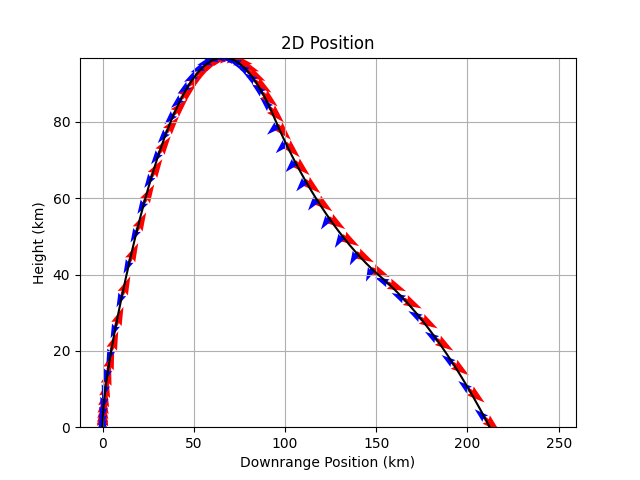
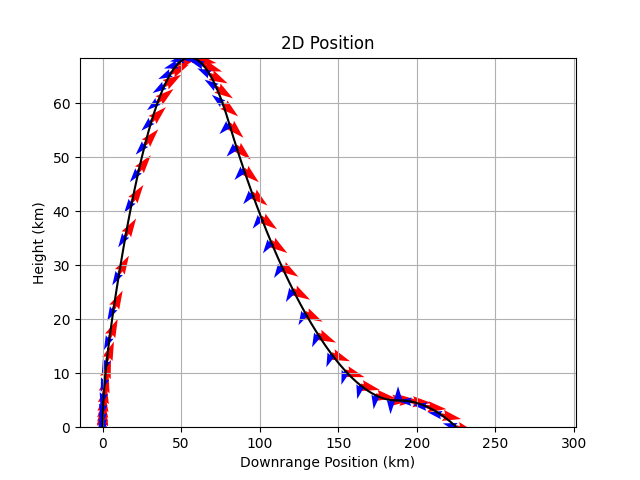
Bringing back normalizing and temp alternating to setting flight path 0 so maybe we can adjust downrage distance

diff --git a/src/trajectory.py b/src/trajectory.py
@@ -5,6 +5,7 @@ import matplotlib.pyplot as plt
 
 # Local imports
 from controller import Controller
+from util import normalize_radians
 
 
 def determine_density(h):
@@ -40,13 +41,17 @@ def ode_equations(t,y):
     # Determine dt
     util_values['dt'] = t - util_values['prior_t']
 
+    # Normalize theta
+    theta = normalize_radians(theta)
+
     # Ascent: before gravity turn
     if h <= h_turn and t<=tb_ascent:
 
         # Phase
-        util_values["phase"] = "Ascent pre grav turn"
+        util_values["phase"] = 1
 
         # Determine TVC correction
+        util_values['psi'], util_values['theta_error'] =pidController.get_psi_correction(theta, util_values['psi'], util_values['theta_error'], util_values['dt'])
         util_values['psi'] = theta
 
         # Thrust and mass
@@ -64,9 +69,10 @@ def ode_equations(t,y):
     elif t <= tb_ascent:
 
         # Phase
-        util_values["phase"] = "Ascent"
+        util_values["phase"] = 2
      
         # Determine TVC correction
+        util_values['psi'], util_values['theta_error'] =pidController.get_psi_correction(theta, util_values['psi'], util_values['theta_error'], util_values['dt'])
         util_values['psi'] = theta
 
         # Thrust and mass
@@ -81,12 +87,13 @@ def ode_equations(t,y):
         x_dot = v*np.cos(theta)
 
     # Coast phase
-    elif t > tb_ascent and t < 237:
+    elif t > tb_ascent and util_values["hmax_flag"] == False:
 
         # Phase
-        util_values["phase"] = "Coast"
+        util_values["phase"] = 3
 
         # Determine TVC correction
+        util_values['psi'], util_values['theta_error'] =pidController.get_psi_correction(theta, util_values['psi'], util_values['theta_error'], util_values['dt'])
         util_values['psi'] = theta
 
         # Thrust and mass
@@ -100,13 +107,13 @@ def ode_equations(t,y):
         x_dot = v*np.cos(theta)
 
     # Descent burn
-    elif util_values['mp_descent'] > 0 and h < 81e3:
+    elif util_values["hmax_flag"] and util_values['mp_descent'] > 0 and util_values['hmax'] - h >= 10e3:
 
         # Phase
-        util_values["phase"] = "Descent"
+        util_values["phase"] = 4
         
         # Determine TVC correction
-        util_values['psi'], util_values['theta_error'] =pidController.get_psi_correction(theta, util_values['psi'], util_values['theta_error'], util_values['dt'])
+        util_values['psi'], util_values['theta_error'] = pidController.get_psi_correction(theta, util_values['psi'], util_values['theta_error'], util_values['dt'])
 
         # Set times
         util_values['descent_t'] = util_values['descent_t'] + util_values['dt']
@@ -126,11 +133,11 @@ def ode_equations(t,y):
     else:
 
         # Phase
-        util_values["phase"] = "Post Descent"
+        util_values["phase"] = 5
 
         # Determine TVC correction
+        util_values['psi'], util_values['theta_error'] =pidController.get_psi_correction(theta, util_values['psi'], util_values['theta_error'], util_values['dt'])
         util_values['psi'] = theta
-
 
         # Thrust and mass
         m = m_init - (mdot_ascent * tb_ascent) - (mdot_descent * util_values['descent_t']) - mpl
@@ -141,6 +148,11 @@ def ode_equations(t,y):
         theta_dot = (F*np.sin(util_values['psi']-theta))/(m*v) + (Cl*rho*v*Ap)/(2*m) - (g*np.cos(theta))/v
         h_dot = v*np.sin(theta)
         x_dot = v*np.cos(theta)
+
+    # Determine if we have reached maximum height
+    if (h - util_values['prior_h']) < -10 and util_values["hmax_flag"] == False:
+        util_values['hmax_flag'] = True 
+        util_values['hmax'] = util_values['prior_h']
 
     # Save values
     save_values['t'].append(t)
@@ -156,9 +168,12 @@ def ode_equations(t,y):
     save_values['x'].append(x)
     save_values['rho'].append(rho)
     save_values['g'].append(g)
+    save_values['phase'].append(util_values['phase'])
+
+    # Update prior values
     util_values['prior_t'] = t
     util_values['prior_h'] = h
-
+    
     #print(t, util_values["phase"], theta*180/np.pi,util_values['theta_error']*180/np.pi, util_values['mp_descent'])
 
     # Return
@@ -177,10 +192,10 @@ if __name__ == '__main__':
 
     # Masses
     mprop_ascent = 111130
-    mprop_descent = mprop_ascent/20
     mpl = 32000
     mstruct = 6736
-    m_init = mprop_ascent + mprop_descent + mstruct + mpl
+    mprop_descent = mstruct*2
+    m_init = mprop_ascent + mstruct + mpl + mprop_descent
 
     # Ascent Burn
     tb_ascent = 100
@@ -189,8 +204,9 @@ if __name__ == '__main__':
     h_turn = 1000
 
     # Descent Burn
-    mdot_descent = mdot_ascent/15
-    thrust_descent = thrust_ascent/15
+    descent_ratio = 10
+    mdot_descent = mdot_ascent/descent_ratio
+    thrust_descent = thrust_ascent/descent_ratio
     
     # Initial Conditions
     v_init = 0
@@ -202,23 +218,24 @@ if __name__ == '__main__':
     # Controller
     #------------------------------------------------
     # PID
-    Kp = 0.6
-    Ki = 0.1
-    Kd = 0.2
-    desired_flight_path_angle = 90
+    Kp = 500
+    Ki = 0
+    Kd = 2
+    desired_flight_path_angle = 0
     bounds = 90
     pidController = Controller(Kp, Ki, Kd, desired_flight_path_angle, bounds)
 
     #------------------------------------------------
     # Dict
     #------------------------------------------------
-    # Dicts
     util_values = {
                     'psi': theta_init,
                     'theta_error': 0,
                     'dt': 0,
                     'prior_t': 0,
                     'prior_h': 0,
+                    'hmax_flag': False,
+                    'hmax': 0,
                     'descent_t': 0,
                     'mp_descent': mprop_descent,
                     'mp_ascent': mprop_ascent,
@@ -238,14 +255,15 @@ if __name__ == '__main__':
                     'F': [],
                     'm': [],
                     'mp_descent': [],
-                    'mp_ascent': []
+                    'mp_ascent': [],
+                    'phase': []
                     }
 
     #------------------------------------------------
     # ODE Solving
     #------------------------------------------------
-    # Solve ODEs  (384 original seconds)
-    sol = integrate.solve_ivp(ode_equations, (0,1000), [v_init, theta_init, h_init, x_init], max_step = 0.1)
+    # Solve ODEs
+    sol = integrate.solve_ivp(ode_equations, (0,5000), [v_init, theta_init, h_init, x_init], max_step = 0.1)
 
     # Final values
     v = sol.y[0]                        # m/s
@@ -264,13 +282,13 @@ if __name__ == '__main__':
 
     # Convert to km/s, km, and Metric Tons, and kN
     for i in range(0,len(save_values['t'])):
-        save_values['x'][i] = save_values['x'][i]/1e3   # [km]
-        save_values['h'][i] = save_values['h'][i]/1e3   # [km]
-        save_values['v'][i] = save_values['v'][i]/1e3   # [km/s]
-        save_values['F'][i] = save_values['F'][i]/1e3   # [kN]
-        save_values['m'][i] = save_values['m'][i]/1e3   # [MT]
-        save_values['mp_descent'][i] = save_values['mp_descent'][i]/1e3   # [MT]
-        save_values['mp_ascent'][i] = save_values['mp_ascent'][i]/1e3   # [MT]
+        save_values['x'][i] = save_values['x'][i]/1e3                       # [km]
+        save_values['h'][i] = save_values['h'][i]/1e3                       # [km]
+        save_values['v'][i] = save_values['v'][i]/1e3                       # [km/s]
+        save_values['F'][i] = save_values['F'][i]/1e3                       # [kN]
+        save_values['m'][i] = save_values['m'][i]/1e3                       # [MT]
+        save_values['mp_descent'][i] = save_values['mp_descent'][i]/1e3     # [MT]
+        save_values['mp_ascent'][i] = save_values['mp_ascent'][i]/1e3       # [MT]
 
     # Post processing
     h_array = np.array(save_values['h'])
@@ -281,64 +299,72 @@ if __name__ == '__main__':
     # Plotting
     #------------------------------------------------
     # Create subplots with 4 rows and 1 column
-    fig, axs = plt.subplots(6, 1, figsize=(10, 18))
+    fig, axs = plt.subplots(7, 1, figsize=(10, 24))
 
     # Plot Height
-    axs[0].plot(save_values['t'], save_values['h'])
+    axs[0].plot(save_values['t'], save_values['phase'])
     axs[0].set_xlabel('Time (s)')
-    axs[0].set_ylabel('Height (km)')
-    axs[0].set_title('Height')
+    axs[0].set_ylabel('Phase')
+    axs[0].set_title('Phase')
     axs[0].grid(True)
     axs[0].set_xlim(0, save_values['t'][last_index_positive])
-    axs[0].set_ylim(0, max(save_values['h']))
 
-    # Plot Downrange
-    axs[1].plot(save_values['t'], save_values['x'])
+    # Plot Height
+    axs[1].plot(save_values['t'], save_values['h'])
     axs[1].set_xlabel('Time (s)')
-    axs[1].set_ylabel('Distance (km)')
-    axs[1].set_title('Downrange')
+    axs[1].set_ylabel('Height (km)')
+    axs[1].set_title('Height')
     axs[1].grid(True)
     axs[1].set_xlim(0, save_values['t'][last_index_positive])
+    axs[1].set_ylim(0, max(save_values['h']))
 
-    # Plot Velocity
-    axs[2].plot(save_values['t'], save_values['v'])
+    # Plot Downrange
+    axs[2].plot(save_values['t'], save_values['x'])
     axs[2].set_xlabel('Time (s)')
-    axs[2].set_ylabel('Velocity (km/s)')
-    axs[2].set_title('Velocity')
+    axs[2].set_ylabel('Distance (km)')
+    axs[2].set_title('Downrange')
     axs[2].grid(True)
     axs[2].set_xlim(0, save_values['t'][last_index_positive])
-    axs[2].set_ylim(0, max(save_values['v']))
+
+    # Plot Velocity
+    axs[3].plot(save_values['t'], save_values['v'])
+    axs[3].set_xlabel('Time (s)')
+    axs[3].set_ylabel('Velocity (km/s)')
+    axs[3].set_title('Velocity')
+    axs[3].grid(True)
+    axs[3].set_xlim(0, save_values['t'][last_index_positive])
+    axs[3].set_ylim(0, max(save_values['v']))
 
     # Plot Angles
-    axs[3].plot(save_values['t'], save_values['theta'], label="$\\theta$")
-    axs[3].plot(save_values['t'], save_values['theta_error'], label="$\\theta_e$")
-    axs[3].plot(save_values['t'], save_values['psi'], label="$\\psi$")
-    axs[3].set_xlabel('Time (s)')
-    axs[3].set_ylabel('Angle (deg)')
-    axs[3].set_title('Flight Angles')
-    axs[3].grid(True)
-    axs[3].legend()
-    axs[3].set_xlim(0, save_values['t'][last_index_positive])
-
-    # Mass
-    axs[4].plot(save_values['t'], save_values['m'], label="Total Mass")
-    axs[4].plot(save_values['t'], save_values['mp_descent'], label="Descent Propellant Mass")
-    axs[4].plot(save_values['t'], save_values['mp_ascent'], label="Ascent Propellant Mass")
+    axs[4].plot(save_values['t'], save_values['theta'], label="$\\theta$")
+    axs[4].plot(save_values['t'], save_values['theta_error'], label="$\\theta_e$")
+    axs[4].plot(save_values['t'], save_values['psi'], label="$\\psi$")
     axs[4].set_xlabel('Time (s)')
-    axs[4].set_ylabel('Mass [MT]')
-    axs[4].set_title('Mass')
+    axs[4].set_ylabel('Angle (deg)')
+    axs[4].set_title('Flight Angles')
     axs[4].grid(True)
     axs[4].legend()
     axs[4].set_xlim(0, save_values['t'][last_index_positive])
 
-    # Thrust
-    axs[5].plot(save_values['t'], save_values['F'], label="Thrust")
+    # Mass
+    axs[5].plot(save_values['t'], save_values['m'], label="Total Mass")
+    axs[5].plot(save_values['t'], save_values['mp_descent'], label="Descent Propellant Mass")
+    axs[5].plot(save_values['t'], save_values['mp_ascent'], label="Ascent Propellant Mass")
     axs[5].set_xlabel('Time (s)')
-    axs[5].set_ylabel('Thrust (kN)')
-    axs[5].set_title('Thrust History')
+    axs[5].set_ylabel('Mass [MT]')
+    axs[5].set_title('Mass')
     axs[5].grid(True)
     axs[5].legend()
     axs[5].set_xlim(0, save_values['t'][last_index_positive])
+
+    # Thrust
+    axs[6].plot(save_values['t'], save_values['F'], label="Thrust")
+    axs[6].set_xlabel('Time (s)')
+    axs[6].set_ylabel('Thrust (kN)')
+    axs[6].set_title('Thrust')
+    axs[6].grid(True)
+    axs[6].legend()
+    axs[6].set_xlim(0, save_values['t'][last_index_positive])
 
     plt.tight_layout()
     plt.savefig('data/output/images/combined_plots.png')
@@ -362,3 +388,6 @@ if __name__ == '__main__':
 
     # Save the plot
     plt.savefig('data/output/images/combined_trajectory.png')
+
+    # Useful prints
+    print("Max Height [km]:",util_values['hmax']/1e3)

diff --git a/src/util.py b/src/util.py
@@ -1,0 +1,9 @@
+# Pkg imports
+import math
+
+def normalize_radians(angle):
+    while angle < -math.pi:
+        angle += 2 * math.pi
+    while angle >= math.pi:
+        angle -= 2 * math.pi
+    return angle
